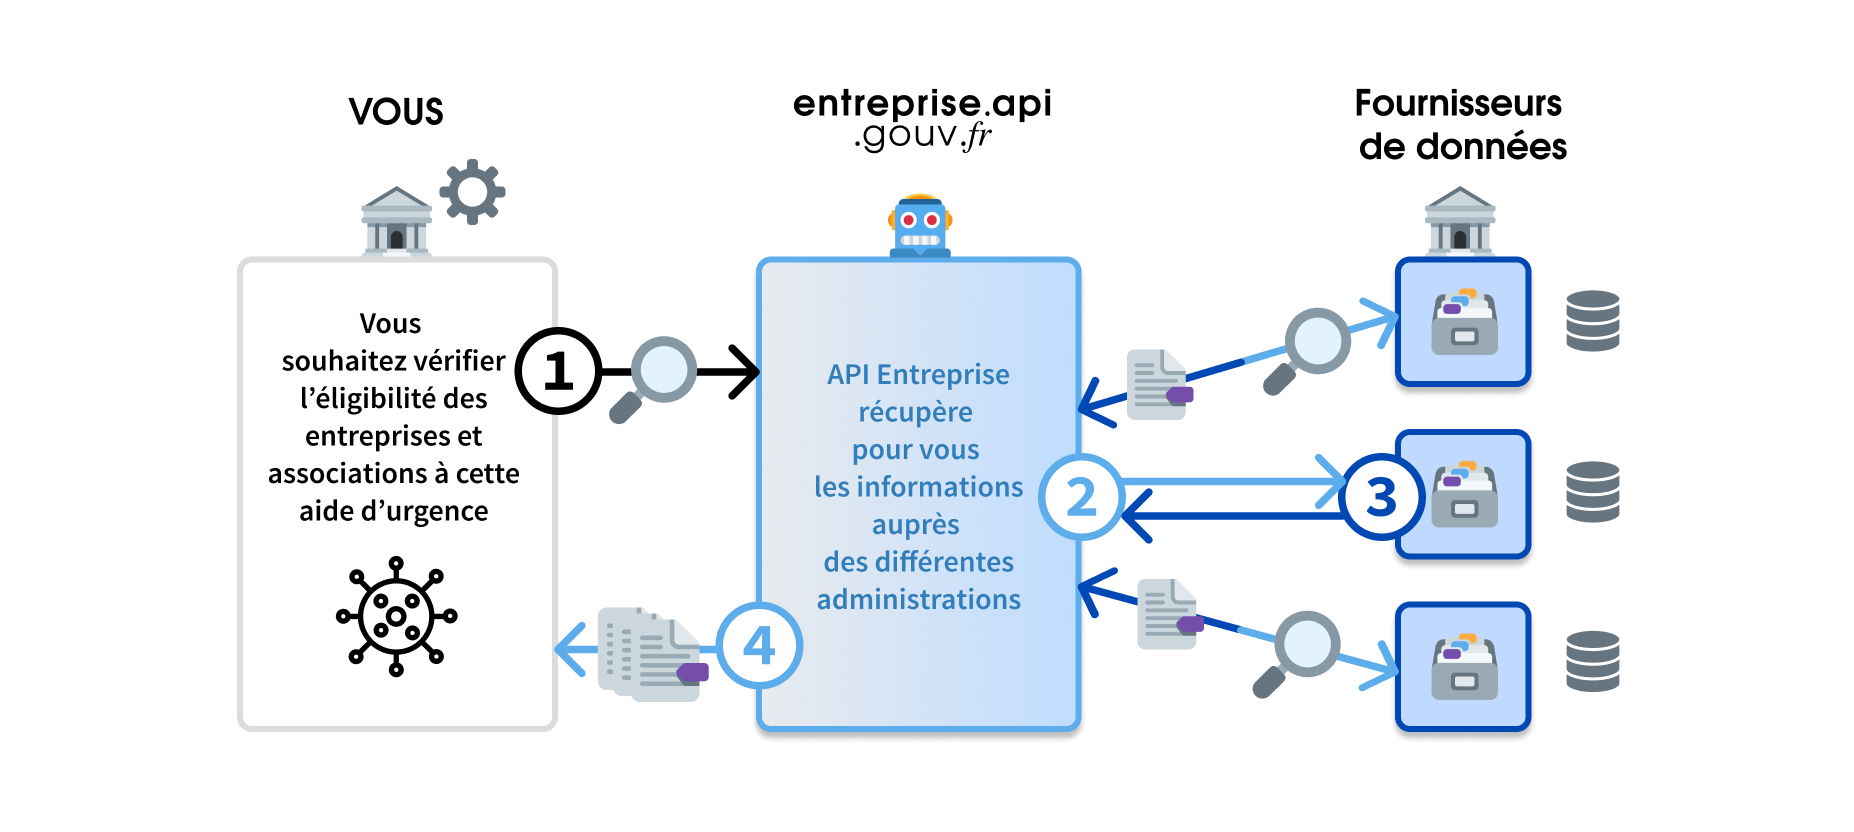
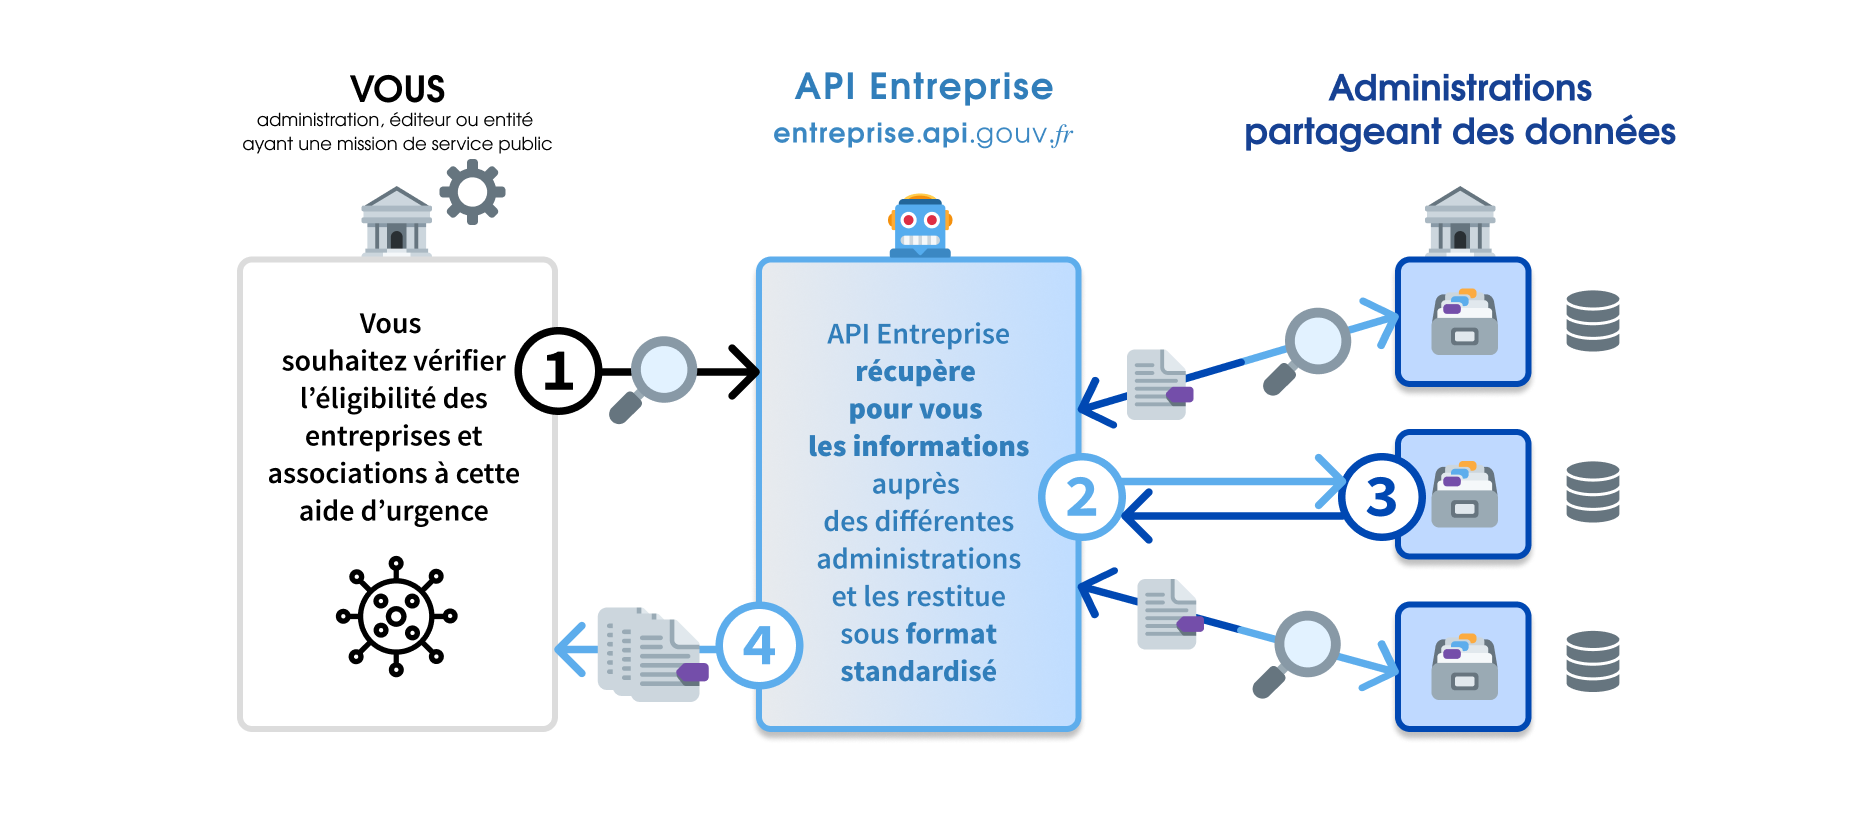
Schéma mis à jour et structure de la page pour tous les cas d'usage

diff --git a/_use_cases/marches_publics.md b/_use_cases/marches_publics.md
@@ -138,22 +138,6 @@ Vous êtes un éditeur proposant une solution pour les marchés publics et ne fi
 
 
 
-## Formulaire d'accès spécifique au cas d'usage
-
-Si vous êtes un acheteur public, il est probable que vous ayez déjà accès aux données d'API Entreprise par l'intermédiaire de votre profil acheteur ou du DUME (Document Unique du Marché Européen) que peut remplir l'entreprise.
-
-Si vous n'êtes pas dans ce premier cas et que vous avez identifié les données nécessaires pour votre service dans le cadre des marchés publics, le lien ci-dessous vous permet d'accéder à un formulaire spécifique "marchés publics" :
-
-  <a class="tpl-button tpl-button--primary" href="https://datapass.api.gouv.fr/api-entreprise?demarche=marches_publics">🔑 Formulaire d'accès "marchés publics"</a>
-
-
-{:.tpl-notification}
-
-Pour bien comprendre les **étapes d'une demande d'accès** à l'API Entreprise et les éléments qui vous seront nécessaires, veuillez consulter la partie [Effectuer sa demande d'habilitation]({{ site.baseurl }}/doc/#demande-habilitation) présente dans la documentation générale. <br><br>
-Une partie de cette documentation vous permet notamment de mieux comprendre [**les attendus de l'encadré "Cadre juridique"**]({{ site.baseurl }}/doc/#le-cadre-juridique) du formulaire.
-<br>
-
-
 ## Ils utilisent l'API Entreprise
 
 
@@ -170,3 +154,18 @@ Ils utilisent déjà l'API Entreprise pour faciliter la candidature et l'instruc
 <br>
 
 {% asset 'cas-usage/cas-usage-marches-publics-exemples.png' %}
+
+## Faire sa demande d'accès
+
+Si vous êtes un acheteur public, il est probable que vous ayez déjà accès aux données d'API Entreprise par l'intermédiaire de votre profil acheteur ou du DUME (Document Unique du Marché Européen) que peut remplir l'entreprise.
+
+Si vous n'êtes pas dans ce premier cas et que vous avez identifié les données nécessaires pour votre service dans le cadre des marchés publics, le lien ci-dessous vous permet d'accéder à un formulaire spécifique "marchés publics" :
+
+  <a class="tpl-button tpl-button--primary" href="https://datapass.api.gouv.fr/api-entreprise?demarche=marches_publics">🔑 Formulaire d'accès "marchés publics"</a>
+
+
+{:.tpl-notification}
+
+Pour bien comprendre les **étapes d'une demande d'accès** à l'API Entreprise et les éléments qui vous seront nécessaires, veuillez consulter la partie [Effectuer sa demande d'habilitation]({{ site.baseurl }}/doc/#demande-habilitation) présente dans la documentation générale. <br><br>
+Une partie de cette documentation vous permet notamment de mieux comprendre [**les attendus de l'encadré "Cadre juridique"**]({{ site.baseurl }}/doc/#le-cadre-juridique) du formulaire.
+<br>

diff --git a/_use_cases/aides_publiques.md b/_use_cases/aides_publiques.md
@@ -124,19 +124,6 @@ Vous souhaitez vous connecter à l'API Entreprise mais **vous n'avez pas de dire
 
 Vous êtes un éditeur proposant une solution pour les aides publiques et ne figurez pas sur cette liste ? Veuillez nous contacter à cette adresse mail : [support@entreprise.api.gouv.fr](mailto:support@entreprise.api.gouv.fr).
 
-## Formulaire d'accès spécifique au cas d'usage
-
-Vous avez identifié les données nécessaires pour votre service dans le cadre de la facilitation des démarches de demande d'aides publiques ? Le lien ci-dessous vous permet d'accéder à un formulaire spécifique "aides publiques" :
-
-  <a class="tpl-button tpl-button--primary" href="https://datapass.api.gouv.fr/api-entreprise?demarche=aides_publiques">🔑 Formulaire d'accès "aides publiques"</a>
-
-
-{:.tpl-notification}
-
-Pour bien comprendre les **étapes d'une demande d'accès** à l'API Entreprise et les éléments qui vous seront nécessaires, veuillez consulter la partie [Effectuer sa demande d'habilitation]({{ site.baseurl }}/doc/#demande-habilitation) présente dans la documentation générale. <br><br>
-Une partie de cette documentation vous permet notamment de mieux comprendre [**les attendus de l'encadré "Cadre juridique"**]({{ site.baseurl }}/doc/#le-cadre-juridique) du formualire.
-<br>
-
 ## Ils utilisent l'API Entreprise
 
 Ils utilisent déjà l'API Entreprise pour faciliter le dépôt des dossiers d'aides publiques/subventions et leur instruction :
@@ -149,3 +136,18 @@ Ils utilisent déjà l'API Entreprise pour faciliter le dépôt des dossiers d'a
 <br>
 
 {% asset 'cas-usage/cas-usage-aides-publiques-exemples.png' %}
+
+
+## Faire sa demande d'accès
+
+Vous avez identifié les données nécessaires pour votre service dans le cadre de la facilitation des démarches de demande d'aides publiques ? Le lien ci-dessous vous permet d'accéder à un formulaire spécifique "aides publiques" :
+
+  <a class="tpl-button tpl-button--primary" href="https://datapass.api.gouv.fr/api-entreprise?demarche=aides_publiques">🔑 Formulaire d'accès "aides publiques"</a>
+
+
+{:.tpl-notification}
+
+Pour bien comprendre les **étapes d'une demande d'accès** à l'API Entreprise et les éléments qui vous seront nécessaires, veuillez consulter la partie [Effectuer sa demande d'habilitation]({{ site.baseurl }}/doc/#demande-habilitation) présente dans la documentation générale. <br><br>
+Une partie de cette documentation vous permet notamment de mieux comprendre [**les attendus de l'encadré "Cadre juridique"**]({{ site.baseurl }}/doc/#le-cadre-juridique) du formualire.
+<br>
+>>>>>>> 0239cea... Schéma mis à jour et structure de la page pour tous les cas d'usage

diff --git a/_use_cases/covid_19.md b/_use_cases/covid_19.md
@@ -140,7 +140,7 @@ Les données sur les associations sont disponibles en open data (sans demande d'
 | API du Répertoire National des Associations (RNA)      | Direction Interministérielle du Numérique (DINUM) | Données d'identité des associations (RNA)            | [`API RNA` disponible sur api.gouv.fr](https://api.gouv.fr/les-api/api_rna){:target="_blank"}                                                                                |
 
 
-## Formulaire d'accès spécifique au cas d'usage
+## Faire sa demande d'accès
 
 **Chaque région doit effectuer une demande d'accès** avec les données indiquées plus haut. Chaque région aura la charge de **transmettre la clé d'accès obtenue** à son prestataire éditeur.
 

diff --git a/_use_cases/editeurs.md b/_use_cases/editeurs.md
@@ -112,7 +112,7 @@ Pour naviguer dans le tableau, vous pouvez également vous aider des catégories
   <a class="tpl-button tpl-button--alternate" href="{{ site.baseurl }}/catalogue/">Parcourir le catalogue des données</a>
 
 
-## Formulaire d'accès spécifique au cas d'usage
+## Faire sa demande d'accès
 
 Vous êtes un éditeur et avez identifié les données nécessaires pour votre service ? Le lien ci-dessous vous permet d'accéder à un formulaire spécifique "éditeurs" :
 
